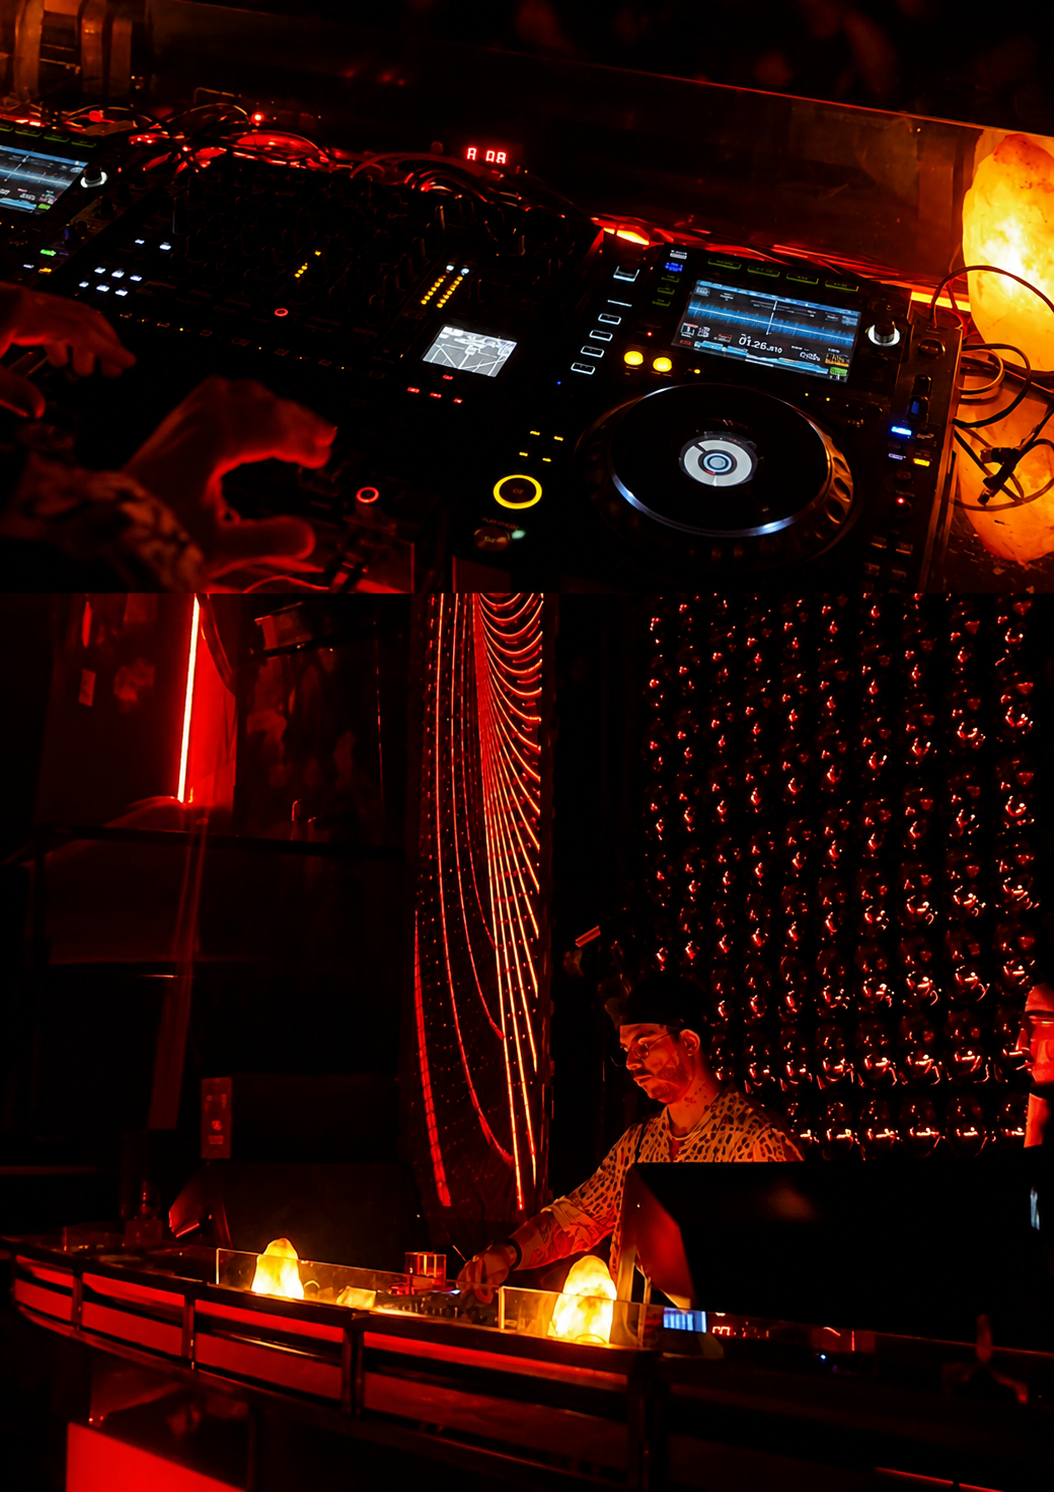
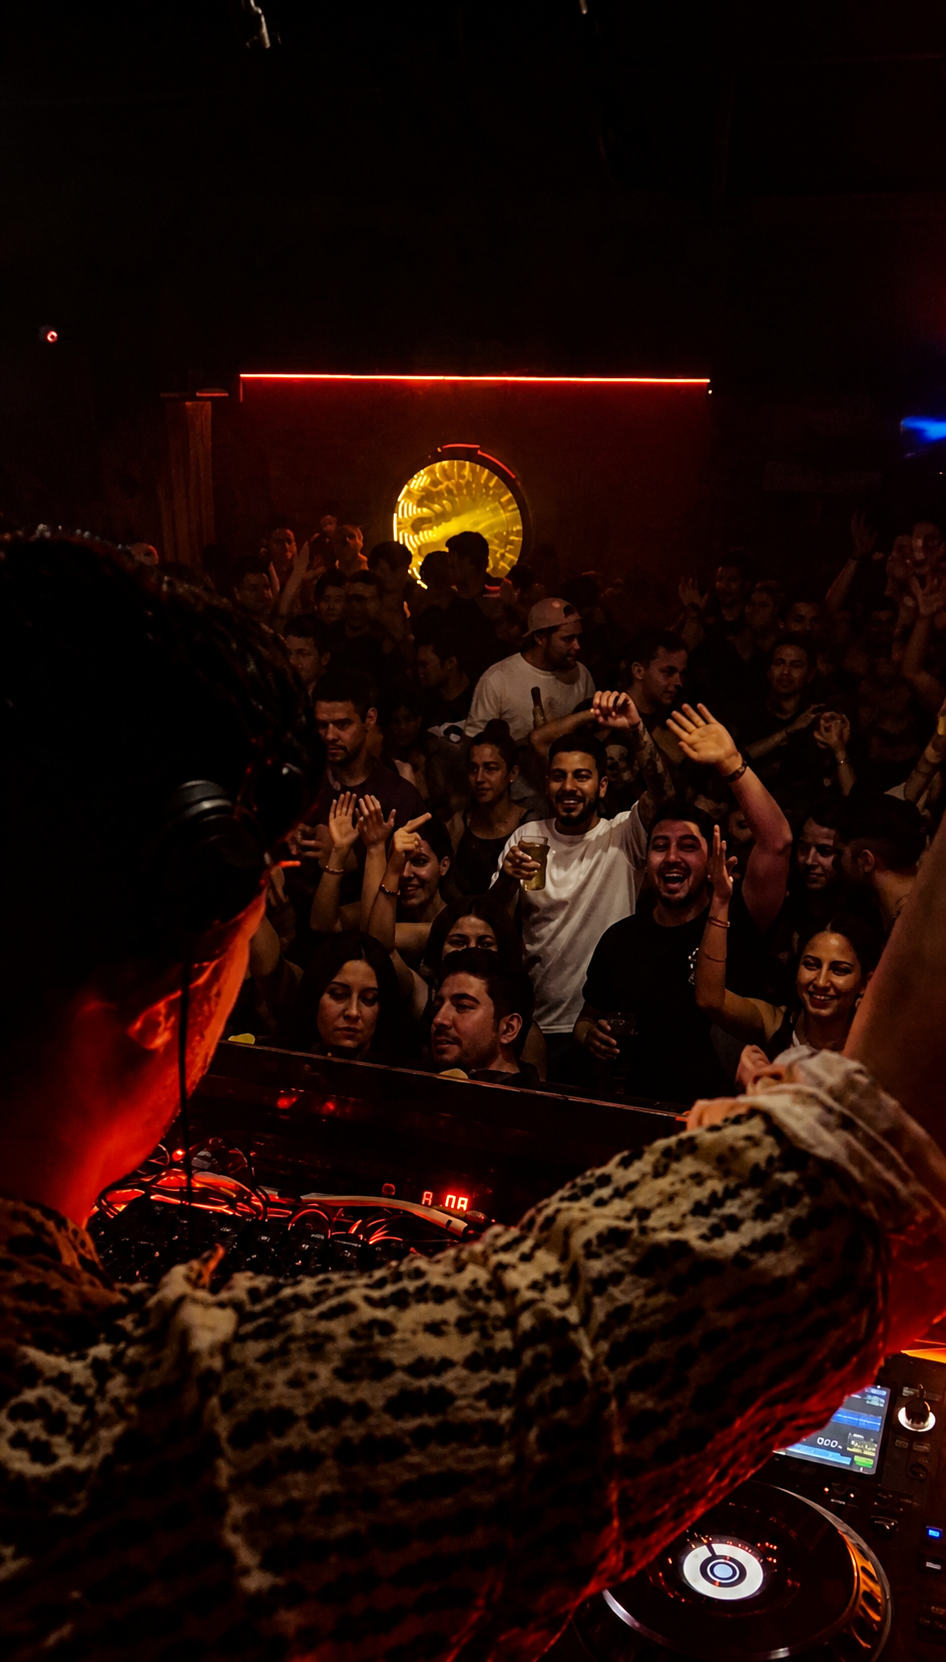
Add featured video covers and improve framing

diff --git a/index.html b/index.html
@@ -362,7 +362,7 @@
                 </div>
 
                 <div class="featured-stage-video">
-                    <video muted loop playsinline preload="metadata" controls>
+                    <video muted loop playsinline preload="metadata" controls poster="on-stage/la-feria-main-02-cover.PNG">
                         <source src="on-stage/la-feria-main-02.mp4" type="video/mp4">
                     </video>
                 </div>
@@ -378,7 +378,7 @@
                 </div>
 
                 <div class="featured-stage-video">
-                    <video muted loop playsinline preload="metadata" controls>
+                    <video muted loop playsinline preload="metadata" controls poster="on-stage/una-al-mes-02-cover.PNG">
                         <source src="on-stage/una-al-mes-02.mp4" type="video/mp4">
                     </video>
                 </div>
@@ -396,7 +396,7 @@
                 </div>
 
                 <div class="featured-stage-video">
-                    <video muted loop playsinline preload="metadata" controls>
+                    <video muted loop playsinline preload="metadata" controls poster="on-stage/terraza-valpo-02-cover.PNG">
                         <source src="on-stage/terraza-valpo-02.mp4" type="video/mp4">
                     </video>
                 </div>
@@ -413,7 +413,7 @@
                 </div>
 
                 <div class="featured-stage-video">
-                    <video muted loop playsinline preload="metadata" controls>
+                    <video muted loop playsinline preload="metadata" controls poster="on-stage/subterraneo-02-cover.PNG">
                         <source src="on-stage/subterraneo-02.mp4" type="video/mp4">
                     </video>
                 </div>

diff --git a/Style.css b/Style.css
@@ -1552,3 +1552,22 @@ html {
         align-items: start !important;
     }
 }
+/* MORE MOMENTS - DESKTOP LARGER */
+
+@media (min-width: 901px) {
+    .more-moments-grid {
+        grid-template-columns: repeat(3, 1fr) !important;
+        gap: 14px !important;
+        width: 100% !important;
+    }
+
+    .more-moment {
+        width: 100% !important;
+        aspect-ratio: 16 / 10 !important;
+    }
+}
+/* FEATURED SHOWS - VIDEO FRAMING */
+
+.featured-stage-video video {
+    object-position: center 60% !important;
+}
